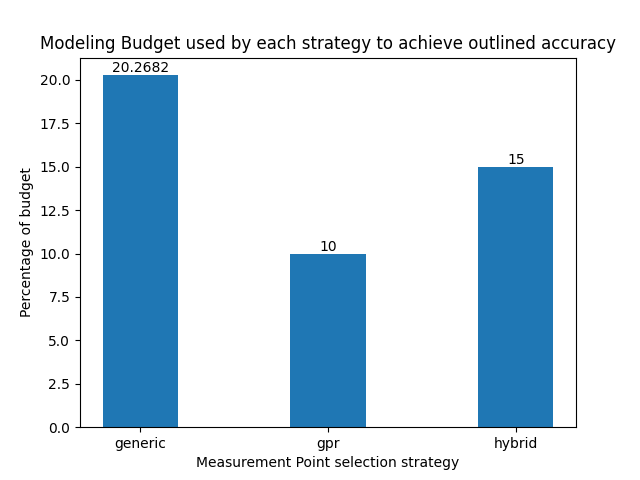
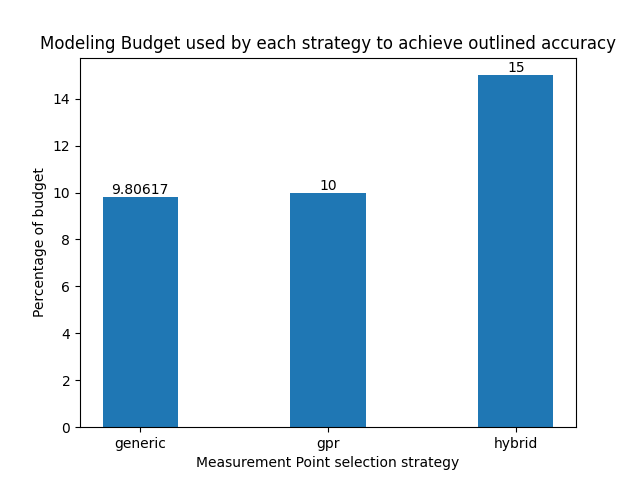
fixed bug in generic strategy

diff --git a/synthetic_benchmark.py b/synthetic_benchmark.py
@@ -67,40 +67,54 @@ class SyntheticBenchmark():
         return experiment_generic
 
     def add_additional_point_generic(self, remaining_points, selected_coord_list):
-        point_costs = {}
-        for key, value in remaining_points.items():
+        while True:
+            point_costs = {}
+            for key, value in remaining_points.items():
+                try:
+                    min_value = min(value)
+                except ValueError:
+                    min_value = math.inf
+                point_costs[key] = min_value
             try:
-                min_value = min(value)
-            except ValueError:
-                min_value = math.inf
-            point_costs[key] = min_value
-        temp = min(point_costs, key=point_costs.get)
-    
-        # check if point was already selected
-        # make sure this point was not selected yet
-        exists = False
-        for k in range(len(selected_coord_list)):
-            if temp == selected_coord_list[k]:
-                exists = True
+                temp = min(point_costs, key=point_costs.get)
+            except Exception as e:
+                print(e)
+                #print("point_costs:",point_costs)
+                #print("remaining_points:",remaining_points)
+                return remaining_points, selected_coord_list
+        
+            # check if point was already selected
+            # make sure this point was not selected yet
+            exists = False
+            for k in range(len(selected_coord_list)):
+                if temp == selected_coord_list[k]:
+                    exists = True
+                    break
+            # if point was selected already, delete it
+            if exists == True:
+                try:
+                    #remaining_points[temp].remove(point_costs[temp])
+                    del remaining_points[temp]
+                except ValueError as e:
+                    print(e)
+                    print("temp:",temp)
+                    print("selected_coord_list:",selected_coord_list)
+                    print("remaining_points:",remaining_points)
+                    return 0
+            # if point was not selected yet, break the loop and add this point
+            else:
                 break
 
-        # if point was selected already, delete it
-        if exists == True:
-            try:
-                remaining_points[temp].remove(point_costs[temp])
-            except ValueError:
-                pass
-        
         # if point was not selected yet, use it
-        else:
-            # add the point to the selected list
-            selected_coord_list.append(temp)
+        # add the point to the selected list
+        selected_coord_list.append(temp)
 
-            # remove this point from the remaining points list
-            try:
-                remaining_points[temp].remove(point_costs[temp])
-            except ValueError:
-                pass
+        # remove this point from the remaining points list
+        try:
+            #remaining_points[temp].remove(point_costs[temp])
+            del remaining_points[temp]
+        except ValueError as e:
+            print(e)
 
         return remaining_points, selected_coord_list
 
@@ -423,77 +437,73 @@ class SyntheticBenchmark():
 
         #print("Selected points:",selected_coord_list)
 
+        #NOTE: (generic, RL-strategy...)
         # select x cheapest measurement(s) that are not part of the list so far
-        # TODO: how to decide how many extra points should be taken???
-        # take points until there is no further improvement in accurac on the points used for modeling
-        # how many times no improvement???
-        # need to eval the old and new model against each other
-        # compare error, improvement between them...
-
+        # continue doing this until there is no improvement in smape value on measured points for a delta of X iterations
         added_points = 0
 
-        print("len selected_coord_list:",len(selected_coord_list))
-
-        #TODO: Bug here is that the points are not added to the selected list, is because of input and output as same variable..., fix this!!!
+        #print("len selected_coord_list:",len(selected_coord_list))
 
         # add the first additional point, this is mandatory for the generic strategy
-        remaining_points_base, selected_coord_list_base = self.add_additional_point_generic(copy.deepcopy(remaining_points), copy.deepcopy(selected_coord_list))
+        remaining_points_base, selected_coord_list_base = self.add_additional_point_generic(remaining_points, selected_coord_list)
         # increment counter value, because a new measurement point was added
         added_points += 1
 
-        print("len selected_coord_list_base:",len(selected_coord_list_base))
+        #print("len selected_coord_list_base:",len(selected_coord_list_base))
 
         #print("added_points:",added_points)
 
         # create first model
-        experiment_generic_base = self.create_experiment(selected_coord_list, experiment)
-        model_generic_base, models = self.get_extrap_model(experiment_generic_base)
+        experiment_generic_base = self.create_experiment(selected_coord_list_base, experiment)
+        _, models = self.get_extrap_model(experiment_generic_base)
         hypothesis = None
         for model in models.values():
             hypothesis = model.hypothesis
-        rss_base = hypothesis.RSS
-        ar2_base = hypothesis.AR2
-        print("rss_base:",rss_base)
-        print("ar2_base:",ar2_base)
+        rss_base = hypothesis.SMAPE
+        #ar2_base = hypothesis.AR2
+        #print("rss_base:",rss_base)
+        #print("ar2_base:",ar2_base)
 
-        stall_counter = 0
-        delta = 0
+        stall_counter = 1
+        #TODO: find the best delta for 2,3,4 parameters...
+        delta = 1
         while True:
-
-            #TODO: should I use specific rss, AR2 values???
 
             # add another point
             remaining_points_new, selected_coord_list_new = self.add_additional_point_generic(remaining_points_base, selected_coord_list_base)
             # increment counter value, because a new measurement point was added
             added_points += 1
 
+            if len(remaining_points_new) == 0:
+                #print("remaining_points_new:",len(remaining_points_new))
+                break
+
             # create new model
-            experiment_generic_new = self.create_experiment(selected_coord_list, experiment)
+            experiment_generic_new = self.create_experiment(selected_coord_list_new, experiment)
             model_generic_new, models = self.get_extrap_model(experiment_generic_new)
             hypothesis = None
             for model in models.values():
                 hypothesis = model.hypothesis
-            rss_new = hypothesis.RSS
-            ar2_new = hypothesis.AR2
-            print("rss_new:",rss_new)
-            print("ar2_new:",ar2_new)
+            rss_new = hypothesis.SMAPE
+            #ar2_new = hypothesis.AR2
+            #print("rss_new:",rss_new)
+            #print("ar2_new:",ar2_new)
 
             # if better continue, else stop after x steps without improvement...
-            if rss_new < rss_base:
-                stall_counter = 0
+            if rss_new <= rss_base:
+                #print("new rss is smaller")
+                stall_counter = 1
                 rss_base = rss_new
                 selected_coord_list_base = selected_coord_list_new
                 remaining_points_base = remaining_points_new
             else:
-                if stall_counter == 3:
+                #print("new rss is larger")
+                if stall_counter == delta:
                     break
                 stall_counter += 1
 
         #print("added_points:",added_points)
-
-        print("len selected_coord_list_new:",len(selected_coord_list_new))
-
-
+        #print("len selected_coord_list_new:",len(selected_coord_list_base),len(selected_coord_list_new),added_points)
 
 
         """add_measurements = 1
@@ -608,7 +618,7 @@ class SyntheticBenchmark():
         # calculate number of additionally used data points (exceeding the base requirement of the sparse modeler)
         add_points_generic = len(selected_coord_list) - min_points
         #add_points_generic_container.append(add_points_generic)
-        print("add_points_generic:",add_points_generic)
+        #print("add_points_generic:",add_points_generic)
 
         # create model using point selection of generic strategy
         model_generic, _ = self.get_extrap_model(experiment_generic_new)
@@ -831,9 +841,7 @@ class SyntheticBenchmark():
 
         #TODO: calculate the cost of the points used by the hybrid strategy and the number of additional points
 
-        #TODO: calculate the model error of all strategies
-
-        #TODO: parallelize all of these steps (the outer loop that iterates through the functions)
+        #TODO: add same functionality for 3,4 parameters...
 
        
         

diff --git a/case_study.py b/case_study.py
@@ -138,6 +138,8 @@ def main():
     # using a total budget of 15, 20, 30 % of all available points, for the point selection
     # mit +-1, +-2.5, +-5, +-7.5, +-10 % noise on the measurements for synthetic stuff
 
+    #TODO: use only kernels > 1 % runtime from total???
+
     budget = args.budget
     print("budget:",budget)
 
